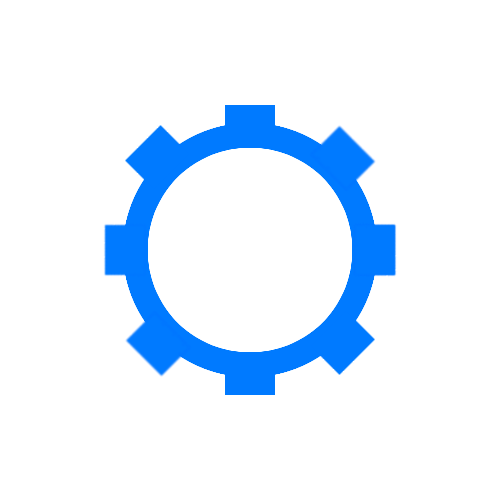
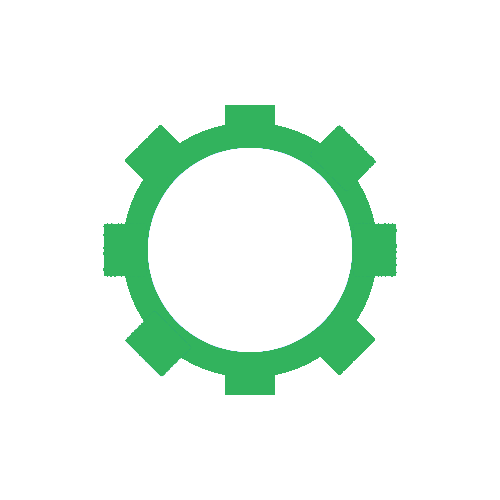
Modification de la tint color et correction de bugs

Changed region(s): [[0.21, 0.21, 0.81, 0.81]]

diff --git a/i-de/ViewController.swift b/i-de/ViewController.swift
@@ -52,7 +52,6 @@ class ViewController: UIViewController {
         }
         
         labelFace.text = "Tirage d'un nombre entre 1 et " + String(UInt8(nombreFace))
-        
         // Secouer
         var donneeSecouer = MesDonnesSecouer()
         dir = NSSearchPathForDirectoriesInDomains(NSSearchPathDirectory.DocumentDirectory, NSSearchPathDomainMask.UserDomainMask, true)
@@ -187,13 +186,14 @@ class ViewController: UIViewController {
             })
         }
         else {
+            self.btChoisir.setRoundedRectangleDisabled()
             // Sinon...
             if (!animationEnCours) {
                 // Il faut que l'animation soit en cours
                 animationEnCours = true
                 if (sender == .Secouer) {
                     // Si on secoue
-                    if (animationsAutorisés == true) {
+                    if (animationsSecouerAutorisés == true) {
                         UIView.animateWithDuration(0.5, delay: 0.0, options: UIViewAnimationOptions.CurveEaseIn, animations: { () -> Void in
                             self.nombre.alpha = 0.0
                             }, completion: { (finished: Bool) -> Void in
@@ -213,6 +213,7 @@ class ViewController: UIViewController {
                         self.nombreTiré = random() % self.nombreFace! + 1;
                         self.nombre.text = String(self.nombreTiré!)
                         self.animationEnCours = false
+                        self.btChoisir.setRoundedRectangle()
                     }
                 }
                 else if (sender == .Tap) {
@@ -237,6 +238,7 @@ class ViewController: UIViewController {
                         self.nombreTiré = random() % self.nombreFace! + 1;
                         self.nombre.text = String(self.nombreTiré!)
                         self.animationEnCours = false
+                        self.btChoisir.setRoundedRectangle()
                     }
                 }
                 else {
@@ -249,6 +251,7 @@ class ViewController: UIViewController {
                         self.nombreTiré = random() % self.nombreFace! + 1;
                         self.nombre.text = String(self.nombreTiré!)
                         self.animationEnCours = false
+                        self.btChoisir.setRoundedRectangle()
                     }
                 }
             }

diff --git a/i-de/UIButtonExtend.swift b/i-de/UIButtonExtend.swift
@@ -10,13 +10,14 @@ import UIKit
 
 
 extension UIButton {
-    func setRoundedRectangle(cornerRadius: CGFloat = 5, borderWidth: CGFloat = 1, borderColor: CGColor = UIColor(red:0, green:0.48, blue:1, alpha:1).CGColor) -> Void {
+    func setRoundedRectangle(cornerRadius: CGFloat = 5, borderWidth: CGFloat = 1, borderColor: CGColor = UIColor(red:0.2, green:0.7, blue:0.36, alpha:1).CGColor) -> Void {
         self.enabled = true
         self.layer.cornerRadius = cornerRadius
         self.layer.borderWidth = borderWidth
         self.layer.borderColor = borderColor
+        
     }
-    func setRoundedRectangleDisabled(cornerRadius: CGFloat = 5, borderWidth: CGFloat = 1, borderColor: CGColor = UIColor(red:0.79, green:0.79, blue:0.79, alpha:1).CGColor) -> Void {
+    func setRoundedRectangleDisabled(cornerRadius: CGFloat = 5, borderWidth: CGFloat = 1, borderColor: CGColor = UIColor(red:0.2, green:0.7, blue:0.36, alpha:1).CGColor) -> Void {
         self.enabled = false
         self.layer.cornerRadius = cornerRadius
         self.layer.borderWidth = borderWidth
